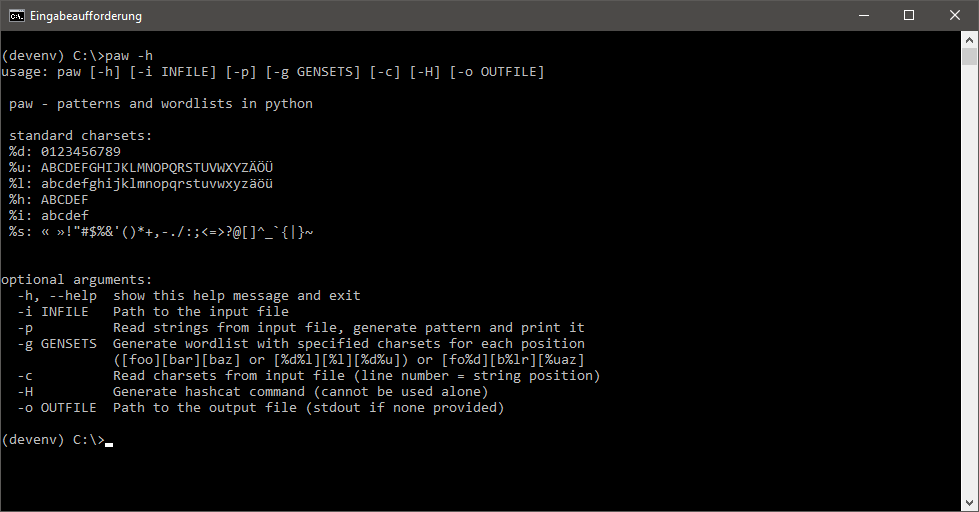
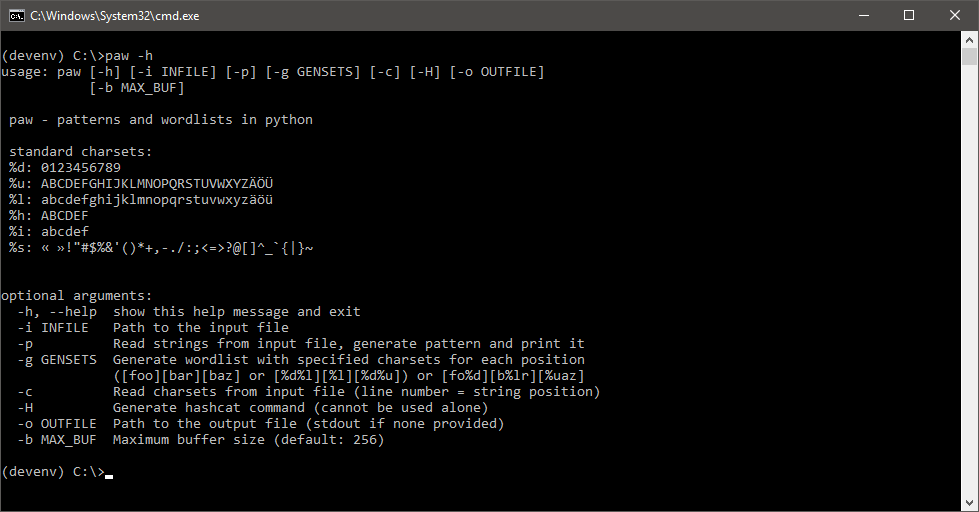
Introduce buffering
After implementing a buffer list, a major speedup could be observed when using a buffer size of 256.

Resolves #14, part of #9

diff --git a/paw/__init__.py b/paw/__init__.py
@@ -169,16 +169,22 @@ class Paw:
             logging.warning('input contains uneven number of brackets')
             self.wcount += 1
 
-    def save_wordlist(self, outfile=None):
+    def save_wordlist(self, outfile=None, max_buf=256):
         '''
         Write wordlist to file
         '''
         try:
-            with open(outfile, 'a', encoding='utf-8') as wl:
+            buffer = []
+            with open(outfile, 'w', encoding='utf-8') as wl:
                 print('generating %d lines.' % functools.reduce(operator.mul,
                       [len(i) for i in self.cset.values()], 1))
                 for word in self.gen_wordlist(self.cset):
-                    wl.write('%s\n' % word)
+                    buffer.append(word)
+                    if len(buffer) == max_buf:
+                        wl.write('\n'.join(buffer)+'\n')
+                        buffer = []
+                else:
+                    wl.write('\n'.join(buffer))
         except (OSError, TypeError):  # stdout
             for word in self.gen_wordlist(self.cset):
                 print(word)

diff --git a/paw/command_line.py b/paw/command_line.py
@@ -54,6 +54,12 @@ def parse_cmdline():
             default=None,
             help=''' Path to the output file (stdout if none
                 provided)''')
+        parser.add_argument(
+            '-b',
+            action='store',
+            dest='max_buf',
+            default=256,
+            help=' Maximum buffer size (default: 256)')
         return parser, parser.parse_args()
 
 
@@ -79,7 +85,7 @@ def main():
                 exit()
             else:
                 paw_cli.gen_custom_charset()
-                paw_cli.save_wordlist(args.outfile)
+                paw_cli.save_wordlist(args.outfile, args.max_buf)
                 if args.hcat:
                     paw_cli.gen_hcat_cmd()
         else:
@@ -94,7 +100,7 @@ def main():
             exit()
         else:
             paw_cli.parse_cset()
-            paw_cli.save_wordlist(args.outfile)
+            paw_cli.save_wordlist(args.outfile, args.max_buf)
 
     if args.pattern:
         if args.infile:

diff --git a/paw/tests/test_save_wordlist.py b/paw/tests/test_save_wordlist.py
@@ -6,9 +6,10 @@ import sys
 
 class save_wordlist_test(paw_test):
     def test_save_wordlist(self):
+        max_buf = 1
         outfile = self.tfilepath
         self.paw.cset = {0: 'a'}
-        self.paw.save_wordlist(outfile)
+        self.paw.save_wordlist(outfile, max_buf)
         self.assertTrue(filecmp.cmp(outfile,
                                     'paw/tests/test_files/test_out'))
 

diff --git a/README.md b/README.md
@@ -33,6 +33,9 @@ In order to use individual components from the library, simply `import paw`.
 - `-H`: generate [hashcat](https://github.com/hashcat/hashcat) command
 > This will output the hashcat command corresponding to a (detected) pattern, allowing keyspace reduction and usage with hashcats mask attack mode. `-H` is experimental and can only be used with `-p` and `-c`. This project is not affiliated with [hashcat](https://github.com/hashcat/hashcat) in any way.
 
+- `-b`: maximum buffer size
+> This argument enables the user to define a custom buffer size. By default, paw will buffer 256 words before writing to the file.
+
 # Functions (library use)
 - `cset_lookup()`: determine charset for character
 > Return the standard character containing the input character, or a warning if it's a bad character (e.g. `0` or `255`). This function uses the predefined character sets from static.py.
